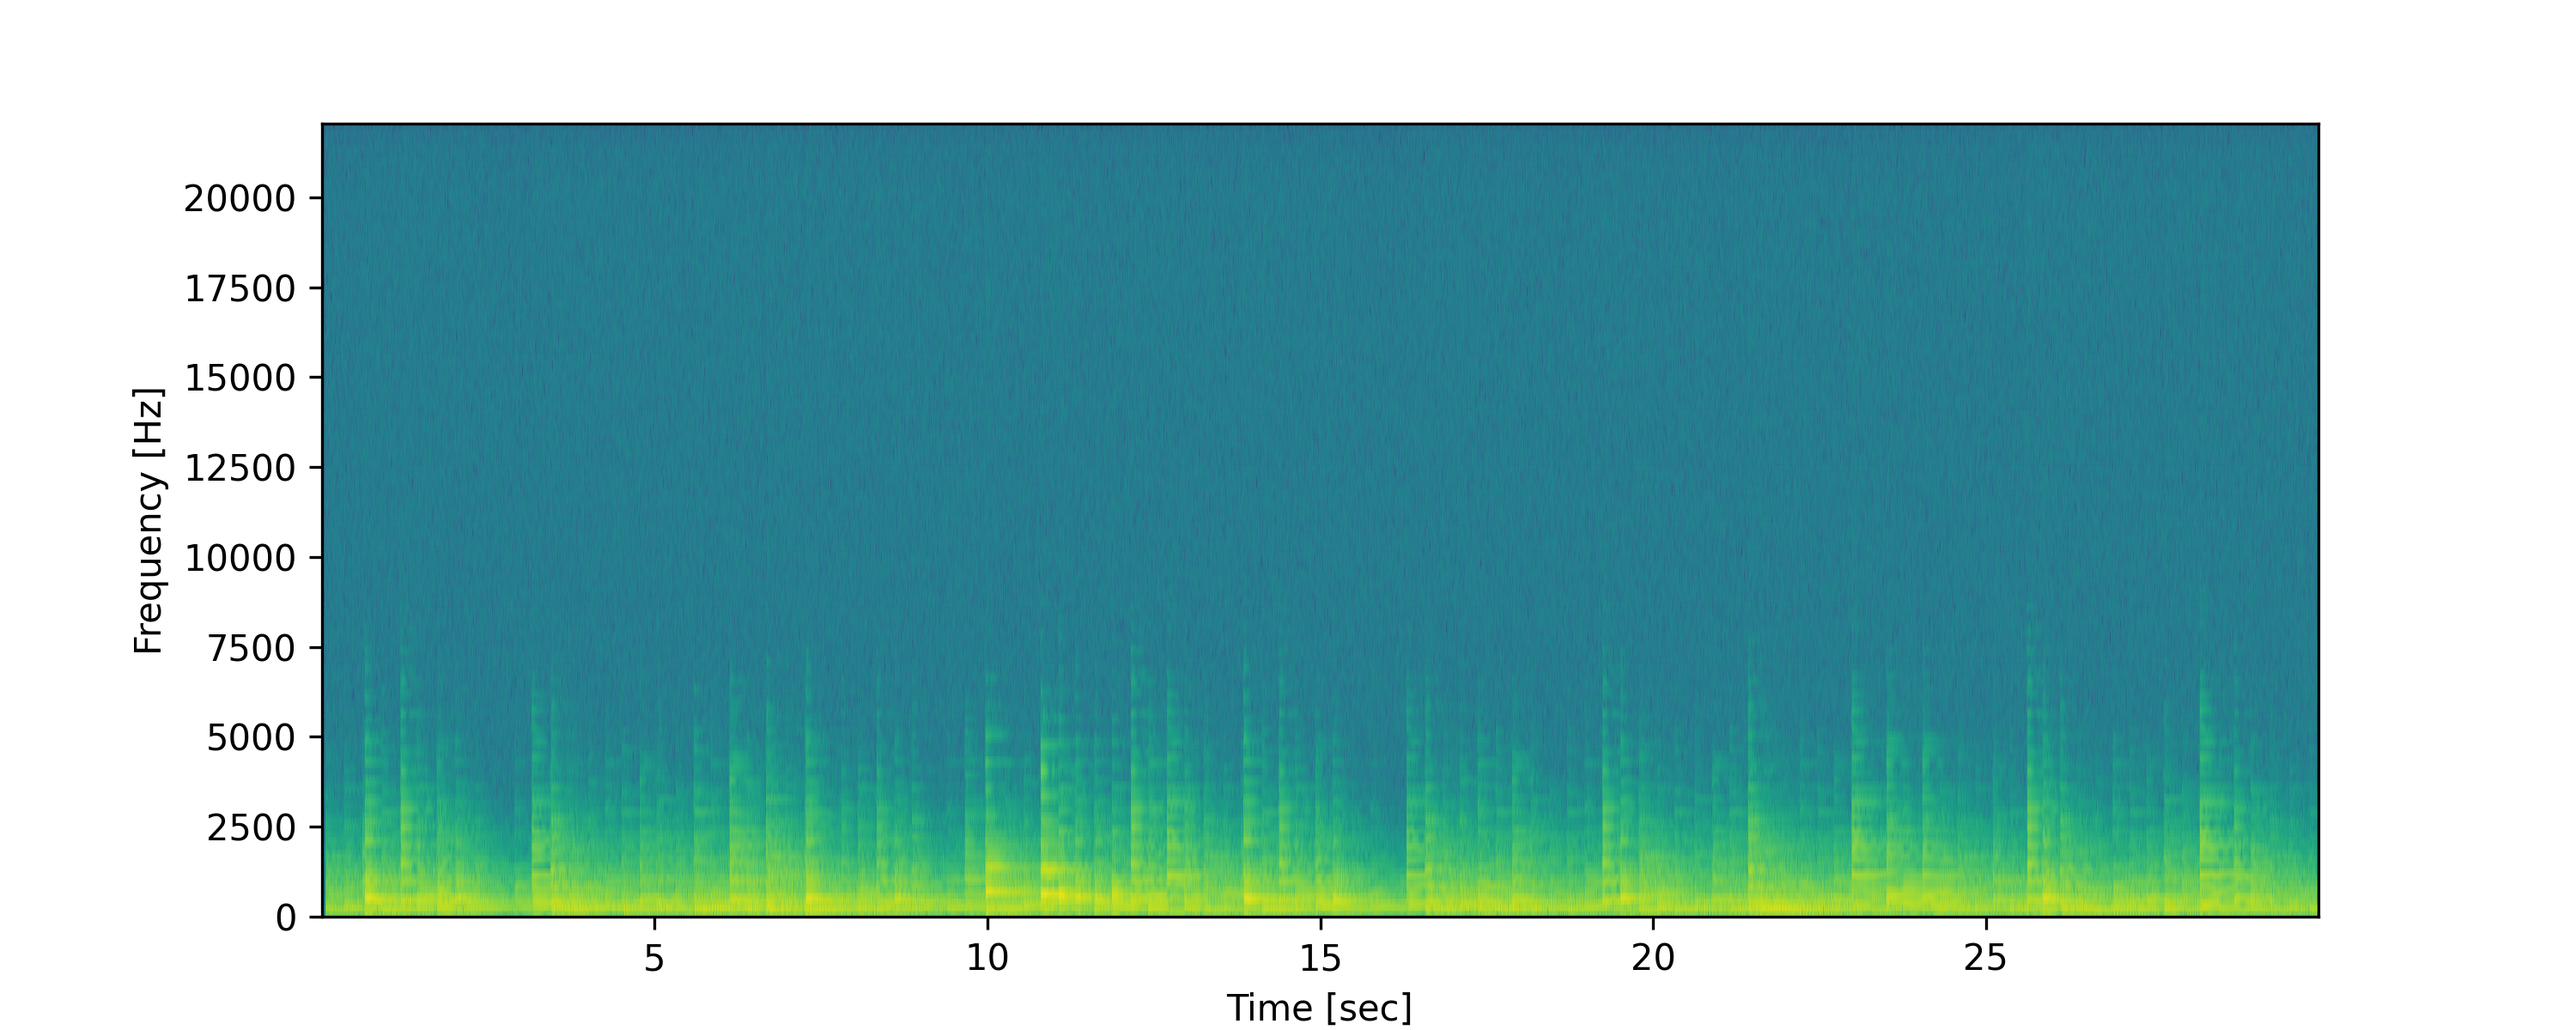
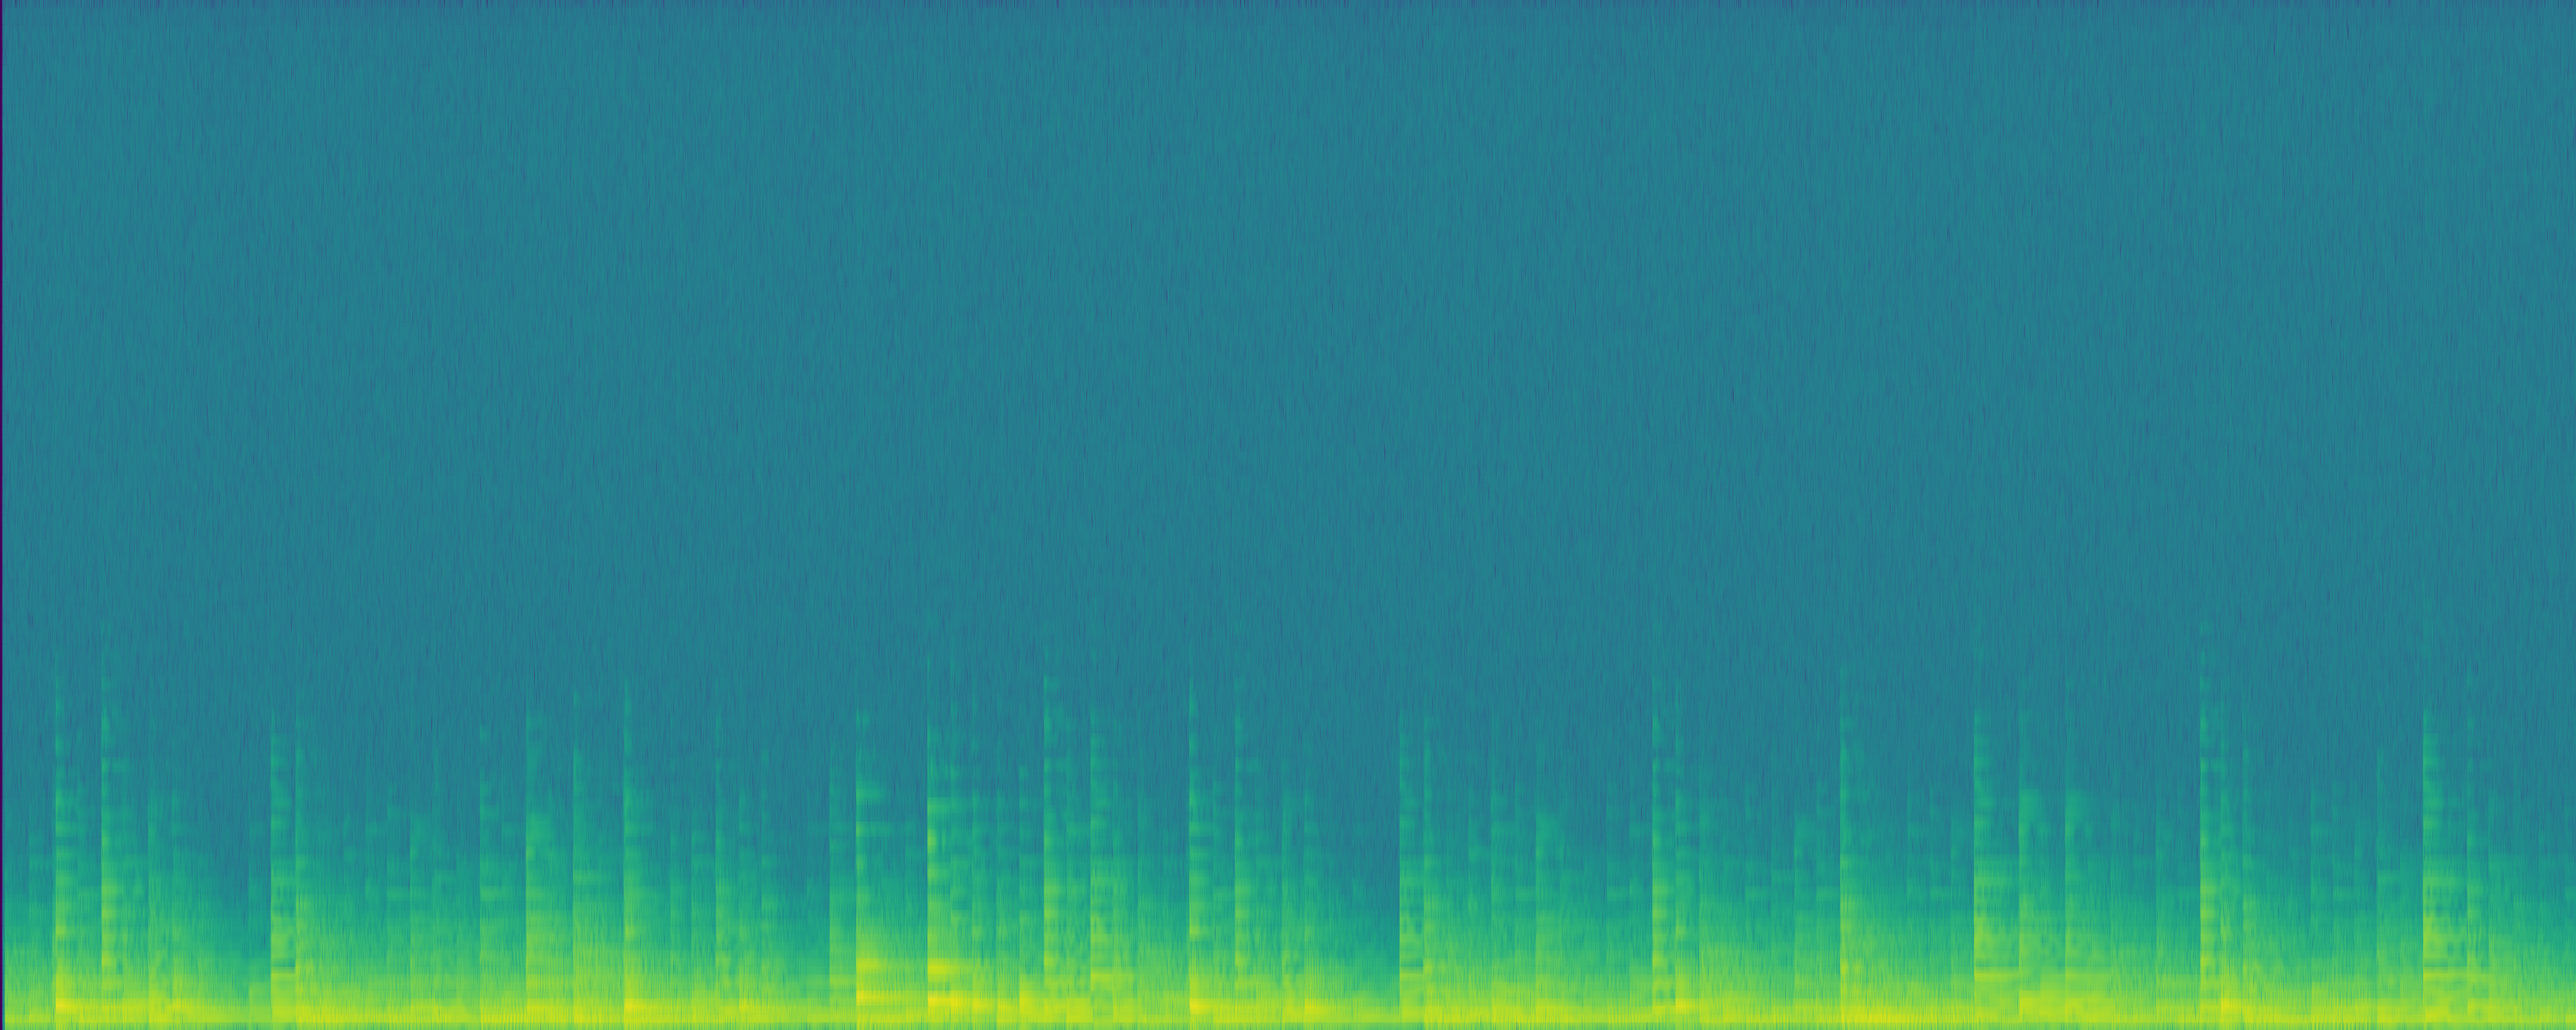
Removed axis on spectrogram

diff --git a/audio_to_spectrogram.py b/audio_to_spectrogram.py
@@ -28,8 +28,8 @@ for file in os.listdir(directory):
         # Plot spectrogram
         plt.figure(figsize=(10, 4))
         plt.pcolormesh(times, frequencies, 10 * np.log10(spectrogram + 1e-10), shading='gouraud')
-        plt.ylabel('Frequency [Hz]')
-        plt.xlabel('Time [sec]')
+        plt.axis('off')
+        plt.tight_layout(pad=0)
 
         destination = 'classical' # Change catagory for training data, else set as 'input'
         plt.savefig(f'spectrogram/{destination}/{filename[:-4]}.png', dpi=300)
